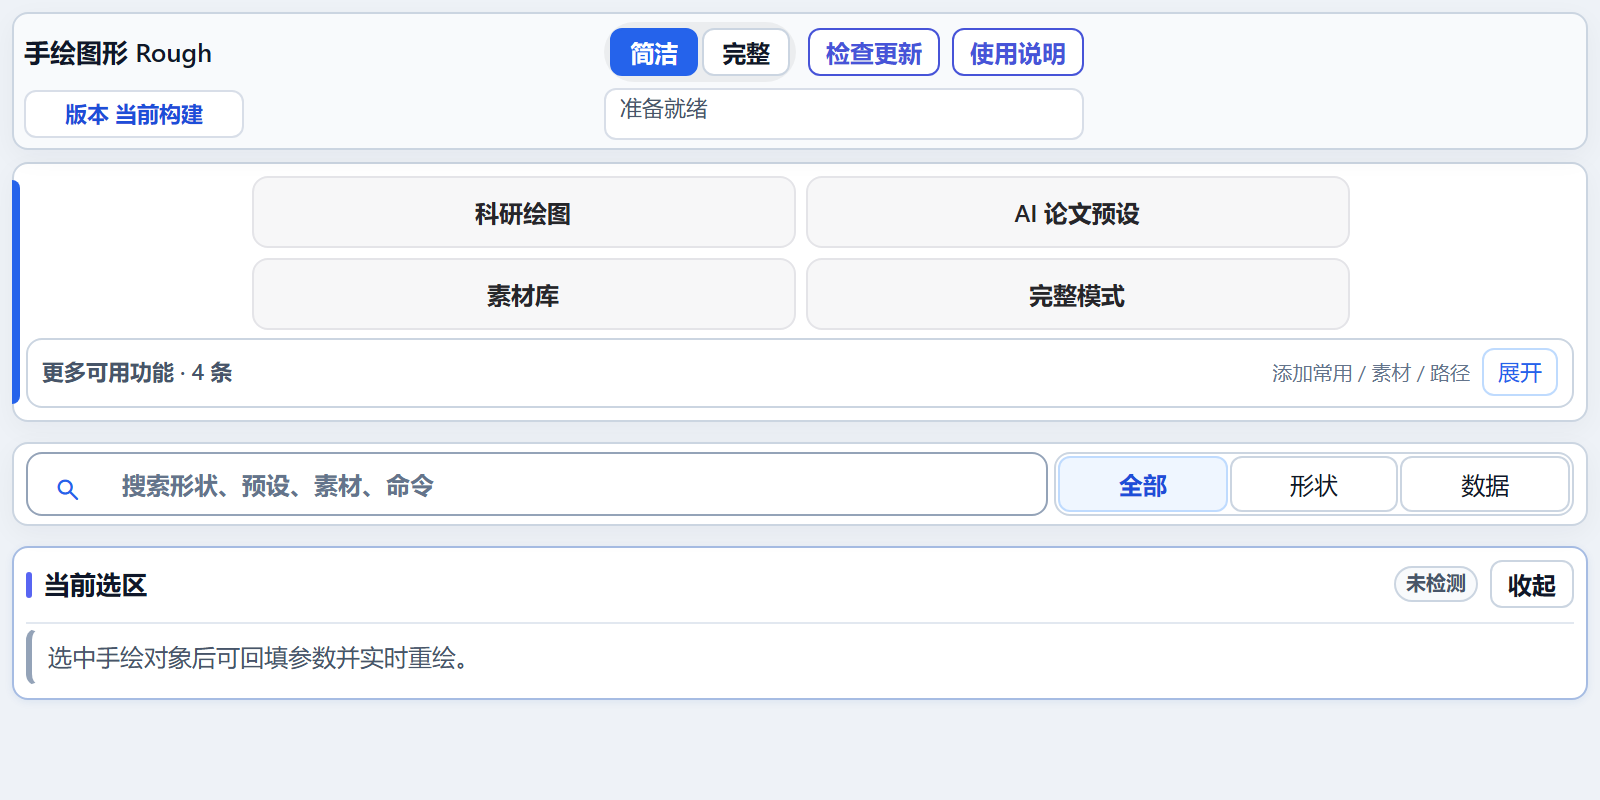
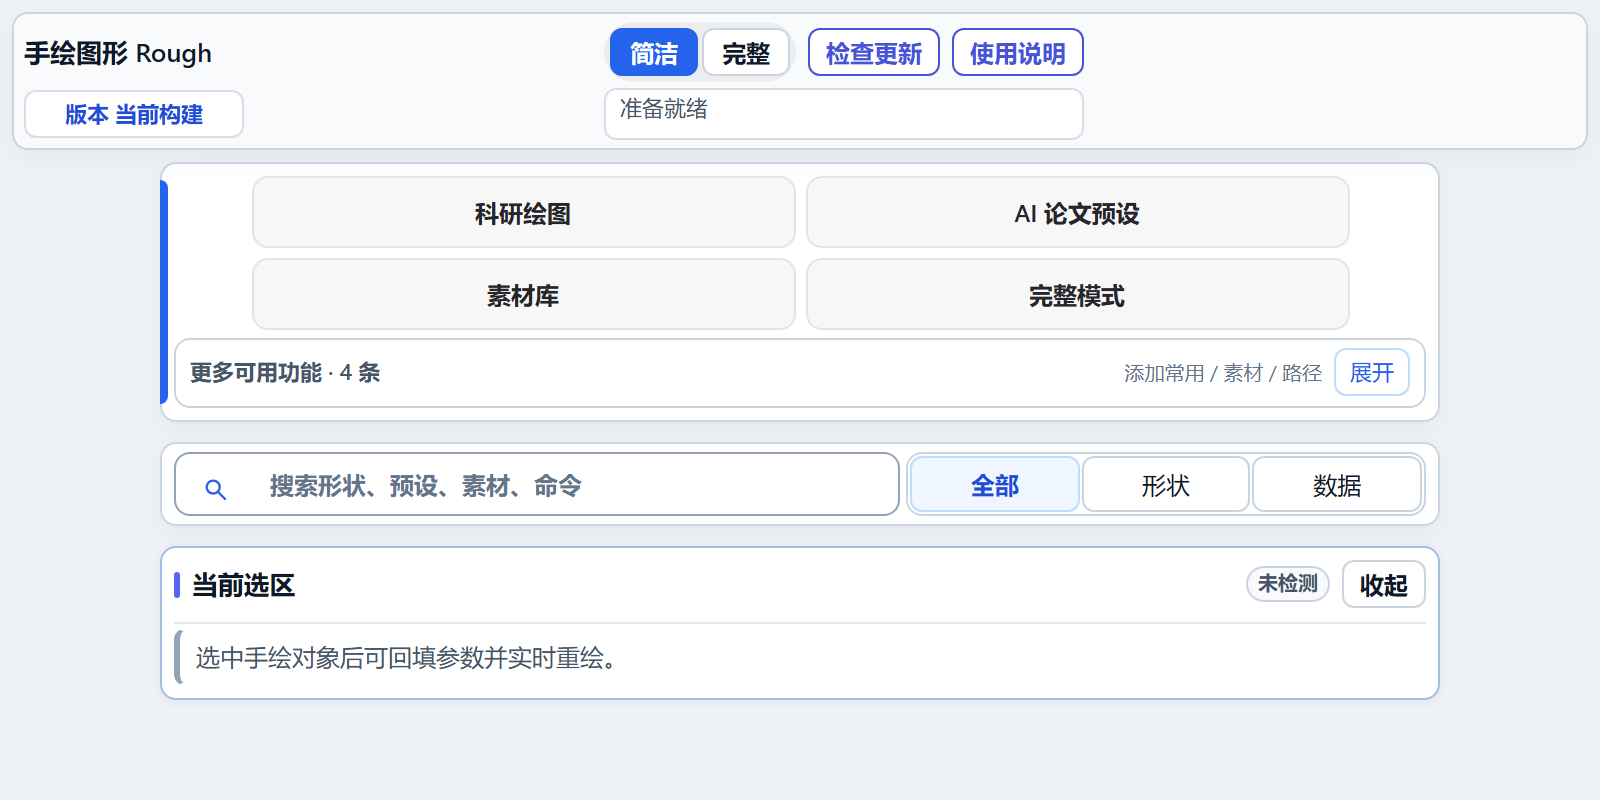
docs: refresh help screenshots

diff --git a/docs/target-mode-plan.md b/docs/target-mode-plan.md
@@ -97,6 +97,7 @@
 22. B654（已完成）：把快捷工作台的模式切换按钮改为双向动态切换，完整模式显示“简洁模式”，简洁模式显示“完整模式”，并同步中文悬浮说明。
 23. B655（已完成）：宽窗简洁模式内容列限制到 640px 并水平居中，避免卡片和空白区在宽任务窗格两侧过度拉伸。
 24. B656（已完成）：B651-B655 统一验证后生成 0.1.913 三格式安装包，MSI 无感安装并核对安装载荷与已安装前端。
+25. B657（已完成）：按当前图标密度、命令结果和简洁模式布局重建帮助截图，避免在线说明展示过期界面。
 
 ## 近期锚点
 
@@ -124,6 +125,7 @@
 - B654 验证锚点：快捷工作台切换按钮按模式显示目标模式，点击可双向切换并更新说明；UI 合同、简洁连接布局、任务窗格交互和无障碍检查通过。800px 完整模式截图确认按钮显示“简洁模式”，截图已回收。
 - B655 验证锚点：700px 以上简洁模式内容列收窄到 640px 并居中；UI 合同、简洁连接布局、任务窗格交互和无障碍检查通过。800px 截图确认卡片不再满宽拉伸，截图已回收。
 - B656 验证锚点：`npm test`、`npm run build:ui`、Release 构建和 `npm run package` 通过，仅保留既有 stdole 版本冲突告警；`releases\RoughPptAddin-0.1.913-54c5bc0a` 生成 ZIP、MSI、EXE，三个产物哈希与清单一致。MSI 静默返回 0，安装元数据为 `0.1.913 / 54c5bc0a9ff5`、`dirty=false`、`LoadBehavior=3`，关键载荷哈希一致；800px 已安装前端截图复核后已回收。
+- B657 验证锚点：四张帮助截图按当前构建重建；编码、本地 UI 资产、UI 合同和非模态帮助合同通过。总览与风格截图确认简洁模式居中布局、放大形状图标和当前版本位。
 
 ## 关键里程碑
 
